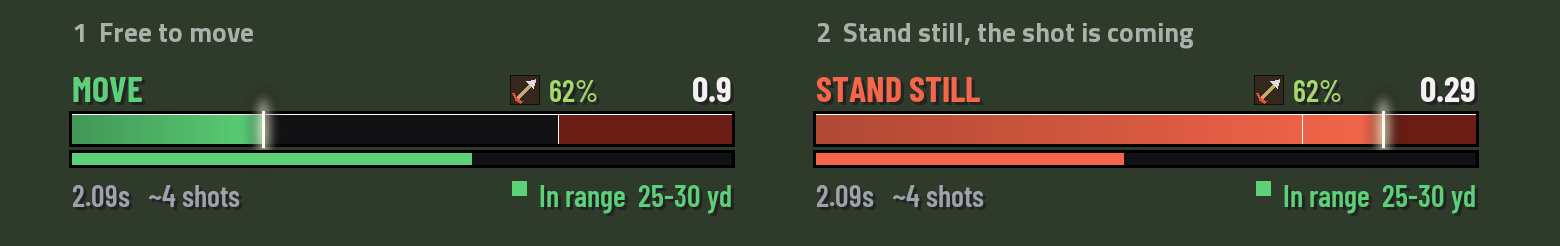
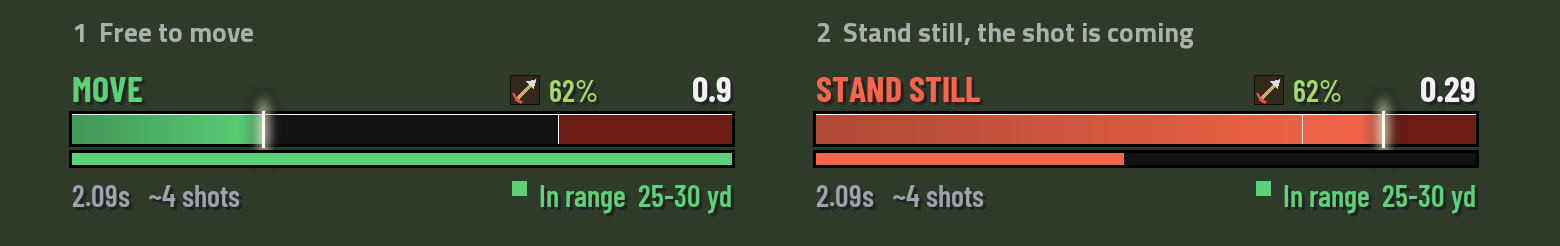
0.10.2: stand-still bar turns solid green when the shot is away
Red while you must stand still, filling to the shot; solid green from the
moment the arrow or bullet leaves until you must stand still again (no longer
shrinking while you may move).

Changed region(s): [[0.2769, 0.5976, 0.4923, 0.6829]]

diff --git a/tests/test_timer.py b/tests/test_timer.py
@@ -1043,7 +1043,7 @@ def main():
     g.fire("PLAYER_SWING", 2.0, 2)
     g.tick(last + 2.52)
     col, val = ns.StandState()
-    check("shot gone: green, go", col == "move" and val > 0.97 and ns.standBar.alpha == 1)
+    check("shot gone: solid green, go", col == "move" and val == 1 and ns.standBar.alpha == 1)
     g.fire("STOP_AUTOREPEAT_SPELL")
     g.playerSpeed = None
     lua.eval("function(c) c.stand, c.early = {}, {} end")(ns.calib)
@@ -1076,13 +1076,16 @@ def main():
         g.fire("PLAYER_SWING", 2.0, 2)
         last = g.GetTime()
     check("learned: delay after the swing when standing still", abs(ns.EarlyDelay() - 0.03) < 1e-6)
-    # Right after the shot: green and full, you may move; it shrinks toward the stop.
+    # Right after the shot: solid green, you may move, and it stays so until you must stand.
     g.tick(last + 0.01)
     col, val = ns.StandState()
-    check("after the shot: stand-still bar green and full", col == "move" and val > 0.98)
-    g.tick(last + (2.03 - 0.62) / 2)
+    check("after the shot: stand-still bar solid green", col == "move" and val == 1)
+    g.tick(last + 2.03 - 0.62 - 0.02)
     col, val = ns.StandState()
-    check("free to move: green, half gone halfway", col == "move" and abs(val - 0.5) < 0.03)
+    check("free to move: still solid green just before you must stand", col == "move" and val == 1)
+    g.tick(last + 2.03 - 0.62 + 0.02)
+    col, val = ns.StandState()
+    check("must stand: red, filling from empty", col == "stand" and val < 0.1)
     # The bar now follows the measured numbers.
     g.tick(last + 2.03 - 0.62 + 0.31)  # halfway through the stand-still time
     col, _ = ns.StandState()

diff --git a/tools/render_previews.py b/tools/render_previews.py
@@ -59,7 +59,7 @@ def stand_value(value, speed, window):
         return 0, STAND
     move_for = speed - window
     if value * speed < move_for:
-        return max(0.0, 1 - value * speed / move_for), MOVE
+        return 1.0, MOVE
     return max(0.0, min(1.0, (value * speed - move_for) / window)), STAND
 
 

diff --git a/README.md b/README.md
@@ -76,7 +76,7 @@ The bar is one swing long:
 | **Red window at the end** | Stand still here. It is the engine's half second, plus your ping (your "I stopped" has to reach the server). |
 | **Red, "STAND STILL"** | The shot is coming: do not move. The countdown shows how long until it fires. |
 | **Red, "STOP"** | You are moving where you must stand still. The shot waits until you stop. |
-| **Slim bar underneath** | Green: you may move; it shrinks as that time runs out. Red: stand still; it fills over exactly that time and is full as the arrow or bullet leaves. Then it turns green again: go. |
+| **Slim bar underneath** | Red: stand still; it fills over exactly that time and is full as the arrow or bullet leaves. Solid green: the shot is away, move. |
 | **Spark** | Where you are in the swing. It pulses while a shot is overdue. |
 | **Flash** | A short flash across the bar when the shot fires. |
 
@@ -86,10 +86,10 @@ stand still, the countdown is the real time to the shot: the end of the swing, o
 half second (plus ping) after you stopped if you stopped late. Without that, the shot would
 seem to come "late" for no reason.
 
-**The stand-still bar shows exactly how long to stand still.** Right after a shot it is full
-and green: move. It shrinks as your time to move runs out, then turns red and fills from the
-moment you have to stand still (or the moment you stop, if you stop late). It is full as the
-shot goes, and turns green again: go. While you stand, the countdown runs in hundredths (`0.29`). If you move, it empties
+**The stand-still bar shows exactly how long to stand still.** It turns red and fills from
+the moment you have to stand still (or the moment you stop, if you stop late). The moment the
+arrow or bullet is away it turns solid green: move. It stays green until you have to stand
+still again. While you stand, the countdown runs in hundredths (`0.29`). If you move, it empties
 and says STOP. The time is not a guess: the addon measures it on your own shots (from the
 moment you stopped to the moment the arrow left), so your ping and the server's timing are
 in it. Until it has three such shots it uses the half second plus your ping. `/hst timing`
